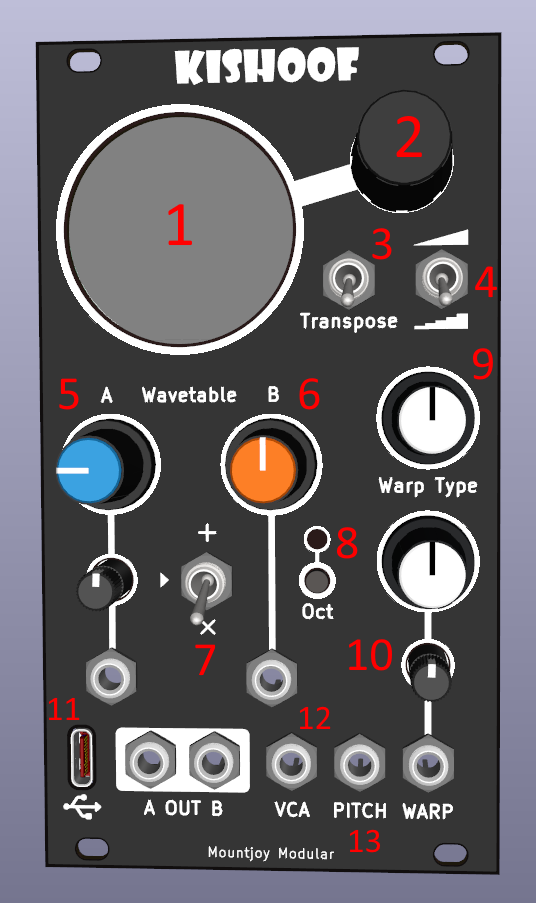
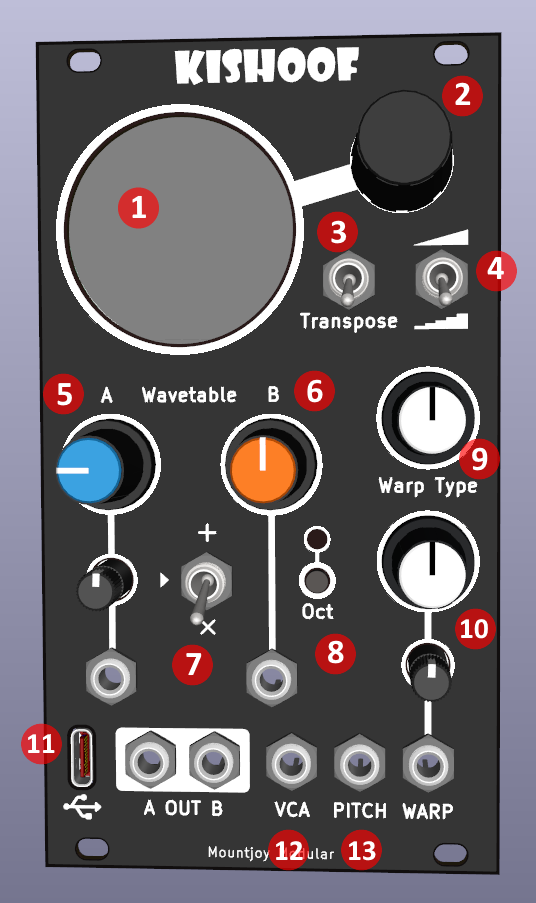
Writing manual

diff --git a/Kishoof/src/lcd.cpp b/Kishoof/src/lcd.cpp
@@ -103,9 +103,9 @@ void LCD::Rotate(const LCD_Orientation_t o)
 {
 	Command(cmdGC9A01A::MADCTL);
 	switch (o) {
-		case LCD_Portrait :				Data(MADCTL_MX | MADCTL_BGR); break;			// RIbbon cable on bottom
+		case LCD_Portrait :				Data(MADCTL_MX | MADCTL_BGR); break;			// Flex cable on bottom
 		case LCD_Portrait_Flipped : 	Data(MADCTL_MV | MADCTL_BGR); break;
-		case LCD_Landscape : 			Data(MADCTL_MY | MADCTL_BGR); break;			// Ribbon cable on top
+		case LCD_Landscape : 			Data(MADCTL_MY | MADCTL_BGR); break;			// Flex cable on top
 		case LCD_Landscape_Flipped :	Data(MADCTL_MX | MADCTL_MY | MADCTL_MV | MADCTL_BGR); break;
 	}
 

diff --git a/Kishoof_Manual.md b/Kishoof_Manual.md
@@ -3,4 +3,104 @@
 Controls
 --------
 
-![Panel](Graphics/Panel_Annotated.png?raw=true "Title")
+![Panel](Graphics/Panel_Annotated.png?raw=true)
+
+**1. LCD Screen** displays name of selected wavetable, waveforms, wavetable and warp positions and warp type
+
+**2. Encoder** selects wavetables; press to change display from both to either wavetable
+
+**3. Transpose**: 3 position control allowing octave up, down or normal for both channels
+
+**4. Playback Mode** Up position plays a smoothly interpolated wavetable in channel A and a preset wavetable in channel B
+
+**5. Channel A Wavetable** Wavetable frames are selected by a combination of the knob and CV via attenuator
+
+**6. Channel B Wavetable** Wavetable frames are selected by a combination of the knob and CV
+
+**7. Channel B Modulation** Modulate channel B output: Up position mixes in channel A; down position multiplies with Channel A (ring modulation)
+
+**8. Channel B Octave** When button is pressed (LED on) channel B is one octave down from channel A
+
+**9. Warp Type** Selects channel A warp type (Squeeze, Bend, Mirror, Through Zero FM). Press knob to reverse direction of channel B wavetable
+
+**10. Warp Amount** Select the amount of modulation via knob and attenuatable CV
+
+**11. USB C device** Used to access the internal storage as a USB drive; also provides a serial console for advanced utilities and configuration
+
+**12. VCA input** Attach an envelope CV to control output volume of module
+
+**13. Pitch** Attach a 1 volt per octave CV to control pitch over 6 octaves
+
+Wavetables and Playback Mode
+----------------------------
+
+Kishoof plays back wavetables from an internal 64MB flash storage system. By connecting the module to a host via USB C the internal storage can be accessed and wavetables stored.
+
+Supported Wavetable formats:
+- wav file format
+- Either 32 bit floating point or 16 bit fixed point
+- Mono
+- 2048 samples per frame
+- Up to 256 frames
+
+Wavetables are selected with the rotary encoder. If wavetables are stored in sub-folders these will be shown in yellow text and can be accessed by pressing the encoder button. If a wavetable is corrupt or in an unsupported format an error is shown on attempting to load:
+
+- Fragged: Wavetable is fragmented in the file system
+- Corrupt: The wav header cannot be read
+- Format: Not 32 bit floating point or 16 bit integer
+- Channels: Not mono
+- Empty: No file data
+
+### Smooth Playback Mode
+
+With the playback mode switch in the up position, Channel A will playback the selected wavetable smoothly interpolating between the frames as the wavetable position is moved.
+
+In this mode channel B plays a special internal wavetable which is user configurable via the console. This can contain up to 10 different wavetabhle frames chosen from: Sine at 1, 2, 3, 4, 5 or 6 times base frequency, Square, Saw, Triangle waves.
+
+### Stepped Playback Mode
+
+With the playback switch in the down position, wavetable frames are selected individually and not interpolated. In this mode both channel A and B can play any frame from the same wavetable.
+
+
+Warping and Modulation
+----------------------
+
+### Channel A Modulation
+
+The Warp Type knob selects the type of modulation applied to channel A:
+
+- **Squeeze** - Warp amount to the left stretches the wave out from the center; to the right squeezes it into the middle
+
+- **Bend** - Progressively squashes the wave from the right to the left
+
+- **Mirror** - The first half of the wave cycle plays the wave forwards, the second half backwards. The Warp amount stretches the wave progressively from the outside to the inside
+
+- **TZFM** - Applies through zero frequency modulation from channel B to channel A: as channel B's wave increases channel A's wavetable is played faster and vice versa. The overall amount of frequency modulation is proportional the base pitch so this will not produce enharmonic tones (as with standard FM).
+
+### Channel B Modulation
+
+The channel B modulation switch affects channel B's output: In the up position channel A's signal is added/mixed  and in the down position the two signals are multiplied (ie ring modulated).
+
+Channel B can also be reversed by clicking the Warp Type button - orange arrows are shown at the bottom of the display to indicate if this is on.
+
+Channel B can also be switched an octave down relative to channel A. This will affect channel A in TZFM mode, unlike the add/multiple modulations.
+
+
+Calibration, Configuration and the Serial Console
+-------------------------------------------------
+
+When connecting a USB C cable to the module a serial console is available for calibration, configuration and trouble-shooting.
+
+Use an appropriate serial console application (Termite, Putty etc) to connect. Type 'help' for a list of commands and 'info' for module information including firmware build date, calibration settings etc:
+
+![Panel](Graphics/console.png?raw=true)
+
+### Calibration
+
+Calibration is used to configure the appropriate scaling for the 1 volt per octave signal. It also sets the normalisation level of the VCA control so the output is at full level with no envelope connected.
+
+To calibrate it is necessary to generate a 0V and 1V signal which represent the lowest two C octaves the module can output. The calibration process will show its readings of the applied signals so try different octaves if the readings look out.
+
+Type 'calib' to begin, check the measured values against the expected values and type 'y' to continue or 'x' to abort:
+
+![Panel](Graphics/calib.png?raw=true)

diff --git a/README.md b/README.md
@@ -1,6 +1,6 @@
 # Kishoof
 
-Kishoof
+Overview
 --------
 
 Kishoof is a Wavetable synthesizer designed for use in a Eurorack modular system. Wavetables are held in 64MB of internal flash storage which is exposed as a USB disk drive via a front-panel USB C connector.
@@ -13,7 +13,7 @@ A circular TFT LCD display shows both or either channel's waveform with any warp
 
 The module was designed in conjunction with musician Tal Shoshani.
 
-[Manual](Kishoof_Manual.md)
+[Manual](https://raw.githubusercontent.com/dchwebb/Kishoof/master/Kishoof_Manual.md)
 
 Technical
 ---------
@@ -32,9 +32,9 @@ USB is connected via a front-panel USB C connector with ESD Protection.
 
 Circuit Design in Kicad v8:
 
-[Components schematic](Hardware/Kishoof_Components.pdf)
+[Components schematic](https://raw.githubusercontent.com/dchwebb/Kishoof/master/Hardware/Kishoof_Components.pdf)
 
-[Controls schematic](Hardware/Kishoof_Controls.pdf)
+[Controls schematic](https://raw.githubusercontent.com/dchwebb/Kishoof/master/Hardware/Kishoof_Controls.pdf)
 
 
 Hardware Errata
